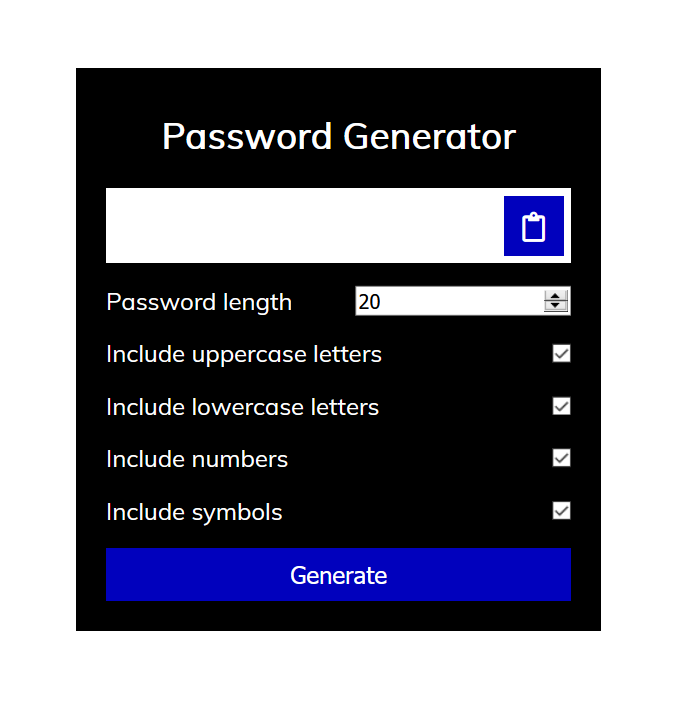
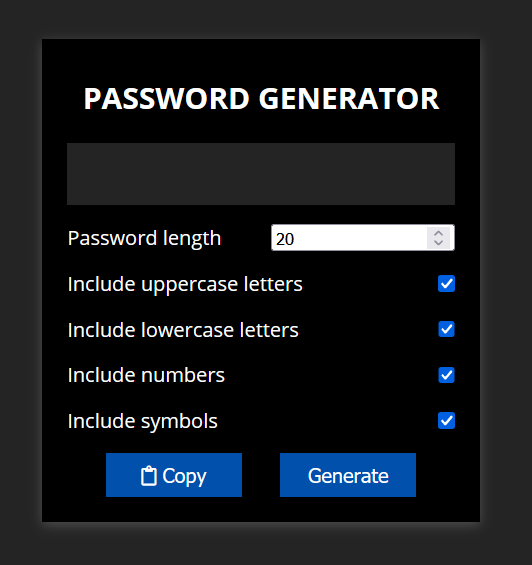
Update

diff --git a/index.html b/index.html
@@ -18,9 +18,6 @@
       <h2>PASSWORD GENERATOR</h2>
       <div class="result-container">
         <span id="result"></span>
-        <button class="btn" id="clipboard">
-          <i class="far fa-clipboard"></i>
-        </button>
       </div>
       <div class="settings">
         <div class="setting">
@@ -44,7 +41,12 @@
           <input type="checkbox" id="symbols" checked />
         </div>
       </div>
-      <button class="btn btn-large" id="generate">Generate</button>
+      <div class="buttons">
+        <button class="btn btn-medium" id="clipboard">
+          <i class="far fa-clipboard"></i> Copy
+        </button>
+        <button class="btn btn-medium" id="generate">Generate</button>
+      </div>
     </div>
     <script src="./assets/script.js"></script>
   </body>

diff --git a/assets/style.css b/assets/style.css
@@ -73,9 +73,9 @@ input[type="checkbox"] {
   background-color: #0050ac;
 }
 
-.btn-large {
+.btn-medium {
   display: block;
-  width: 100%;
+  width: 35%;
 }
 
 .setting {
@@ -83,6 +83,12 @@ input[type="checkbox"] {
   justify-content: space-between;
   align-items: center;
   margin: 15px 0;
+}
+
+.container .buttons {
+  display: flex;
+  text-align: center;
+  justify-content: space-evenly;
 }
 
 @media screen and (max-width: 400px) {
